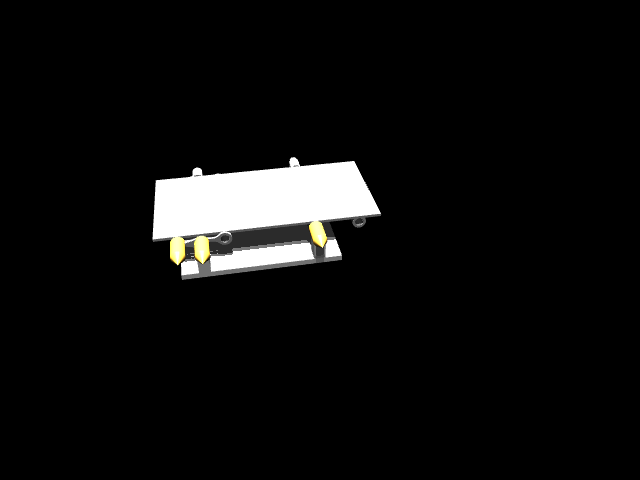
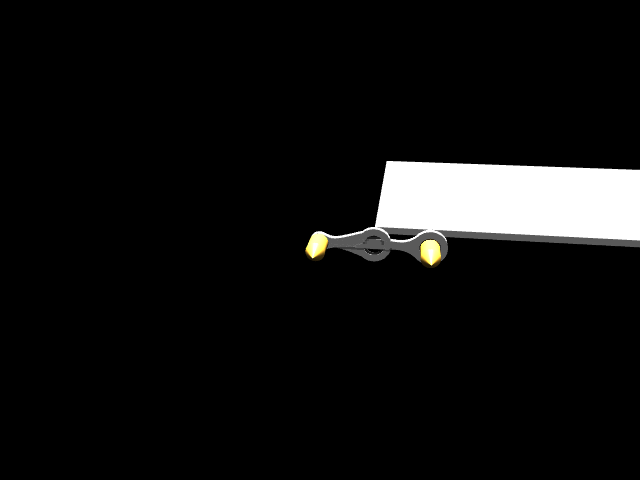
Last Update on Dr. Cai's Computer
Didn't really change much. Just messed around with some more stuff

Changed region(s): [[0.2188, 0.3125, 1.0, 0.5938]]

diff --git a/VaheMuJoCoProject/hellorobot.py b/VaheMuJoCoProject/hellorobot.py
@@ -65,7 +65,7 @@ xml = """
                         <geom name= "long_hinge_right" type="mesh" mesh = "long_hinge_right"/>
                     </body>
 
-                    <joint />
+                    
 
                     <body name="top_board2" pos = "-0.101600 0 0">
                         <geom name="top_board2" euler = "-90 0 0" type="mesh" mesh="top_board2" />
@@ -96,6 +96,52 @@ xml = """
 """.format(lights = util.ringOfLightsXMLString(50, 3, 5))
 
 
+xml = """
+<mujoco>
+
+    <option gravity = "0 -10 0"/>
+
+    <asset>
+        <mesh file="VaheMuJoCoProject\\STLFiles\\BlackTeamRobot\\base.stl"/>
+        <mesh file="VaheMuJoCoProject\\STLFiles\\BlackTeamRobot\\base2.stl"/>
+        <mesh file="VaheMuJoCoProject\\STLFiles\\BlackTeamRobot\\big_connector_rod_back.stl"/>
+        <mesh file="VaheMuJoCoProject\\STLFiles\\BlackTeamRobot\\big_connector_rod_front.stl"/>
+        <mesh file="VaheMuJoCoProject\\STLFiles\\BlackTeamRobot\\big_connector_rod_top.stl"/>
+        <mesh file="VaheMuJoCoProject\\STLFiles\\BlackTeamRobot\\long_hinge_left.stl"/>
+        <mesh file="VaheMuJoCoProject\\STLFiles\\BlackTeamRobot\\long_hinge_right.stl"/>
+        <mesh file="VaheMuJoCoProject\\STLFiles\\BlackTeamRobot\\short_hinge_left.stl"/>
+        <mesh file="VaheMuJoCoProject\\STLFiles\\BlackTeamRobot\\short_hinge_right.stl"/>
+        <mesh file="VaheMuJoCoProject\\STLFiles\\BlackTeamRobot\\small_connector_rod.stl"/>
+        <mesh file="VaheMuJoCoProject\\STLFiles\\BlackTeamRobot\\top_board.stl"/>
+        <mesh file="VaheMuJoCoProject\\STLFiles\\BlackTeamRobot\\top_board2.stl"/>
+        <mesh file="VaheMuJoCoProject\\STLFiles\\BlackTeamRobot\\short_hinge_sc.stl"/>
+    </asset>
+
+    <worldbody>
+        <camera name="main_camera" pos = "-0.075 0.5 0.2" mode="targetbody" target="tier1"/>
+        {lights}
+        <body name="tier1">
+            <joint name="basejoint" pos="0 0 0" axis="0 1 0"/>
+            <body name="tier2a">
+                <geom name="long_hinge_left" euler = "0 0 0" type="mesh" mesh="long_hinge_left"/>
+                <body name="tier3a" pos="-0.101600 0 0">
+                    <joint name="top_board_joint" pos="0 0 0" axis="0 1 0"/>
+                    <geom name="top_board" euler = "-90 0 0" type="mesh" mesh="top_board2" />
+                </body>
+            </body>
+            <body name="tier2b">
+                <geom name="short_hinge_sc" euler="-90 0 0"type="mesh" mesh="short_hinge_sc"/>
+            </body>
+        </body>
+    
+    </worldbody>
+
+    <actuator>
+        <motor name = "basejoint_motor" joint="basejoint"/>
+    </actuator>
+
+</mujoco>
+""".format(lights = util.ringOfLightsXMLString(0, 3, 5))
 
 
 

diff --git a/VaheMuJoCoProject/UtilityClasses/helloUtility.py b/VaheMuJoCoProject/UtilityClasses/helloUtility.py
@@ -47,3 +47,4 @@ def ringOfLightsXMLString(starter, radius, height):
 
 
 
+print(ringOfLightsXMLString(0, 3, 5))
